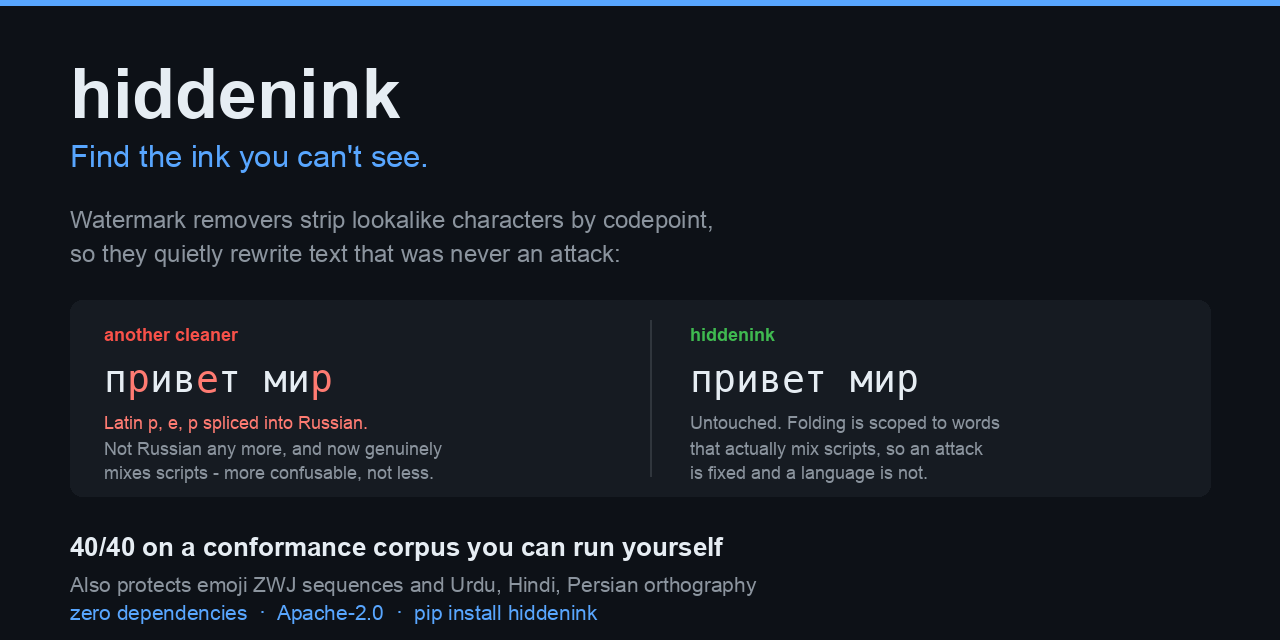
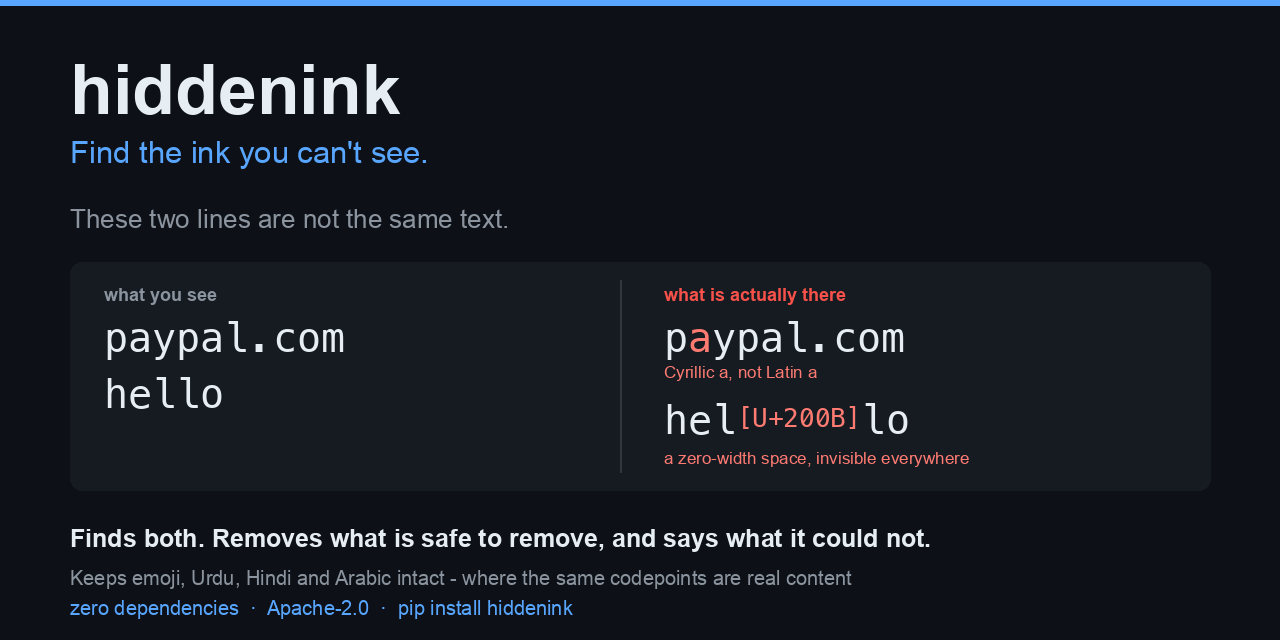
docs: English social card, and a terminal demo above the fold
The card was in Russian, which asked a reader to care about a language before
they cared about the problem. English lands the point faster and demonstrates
the tagline literally: two lines that look identical, one of which contains a
Cyrillic 'a' and a zero-width space.

The demo GIF is real captured output, not a mockup, and the fixture is an
invoice whose payment URL is a homograph -- which is the version of this
problem people already understand. Absolute raw URL so it renders on the PyPI
project page too, where relative paths resolve to nothing.

0.1.2 rebuilt rather than bumped, since it has not been uploaded yet.

diff --git a/README.md b/README.md
@@ -14,6 +14,14 @@ Apache-2.0 · Python ≥3.10 · **zero dependencies** in the core · works offli
 
 ## In ten seconds
 
+<p align="center">
+  <img src="https://raw.githubusercontent.com/syahra712/hiddenink/main/.github/demo.gif"
+       alt="An invoice that looks ordinary. hiddenink finds a Cyrillic homograph in the payment URL, a zero-width space, and a right-to-left override." width="760">
+</p>
+
+That invoice looks fine. The payment URL was never `paypal.com` — the `a` is Cyrillic.
+
+
 Every "AI watermark remover" strips invisible characters by codepoint. That is why they corrupt your text:
 
 ```console
